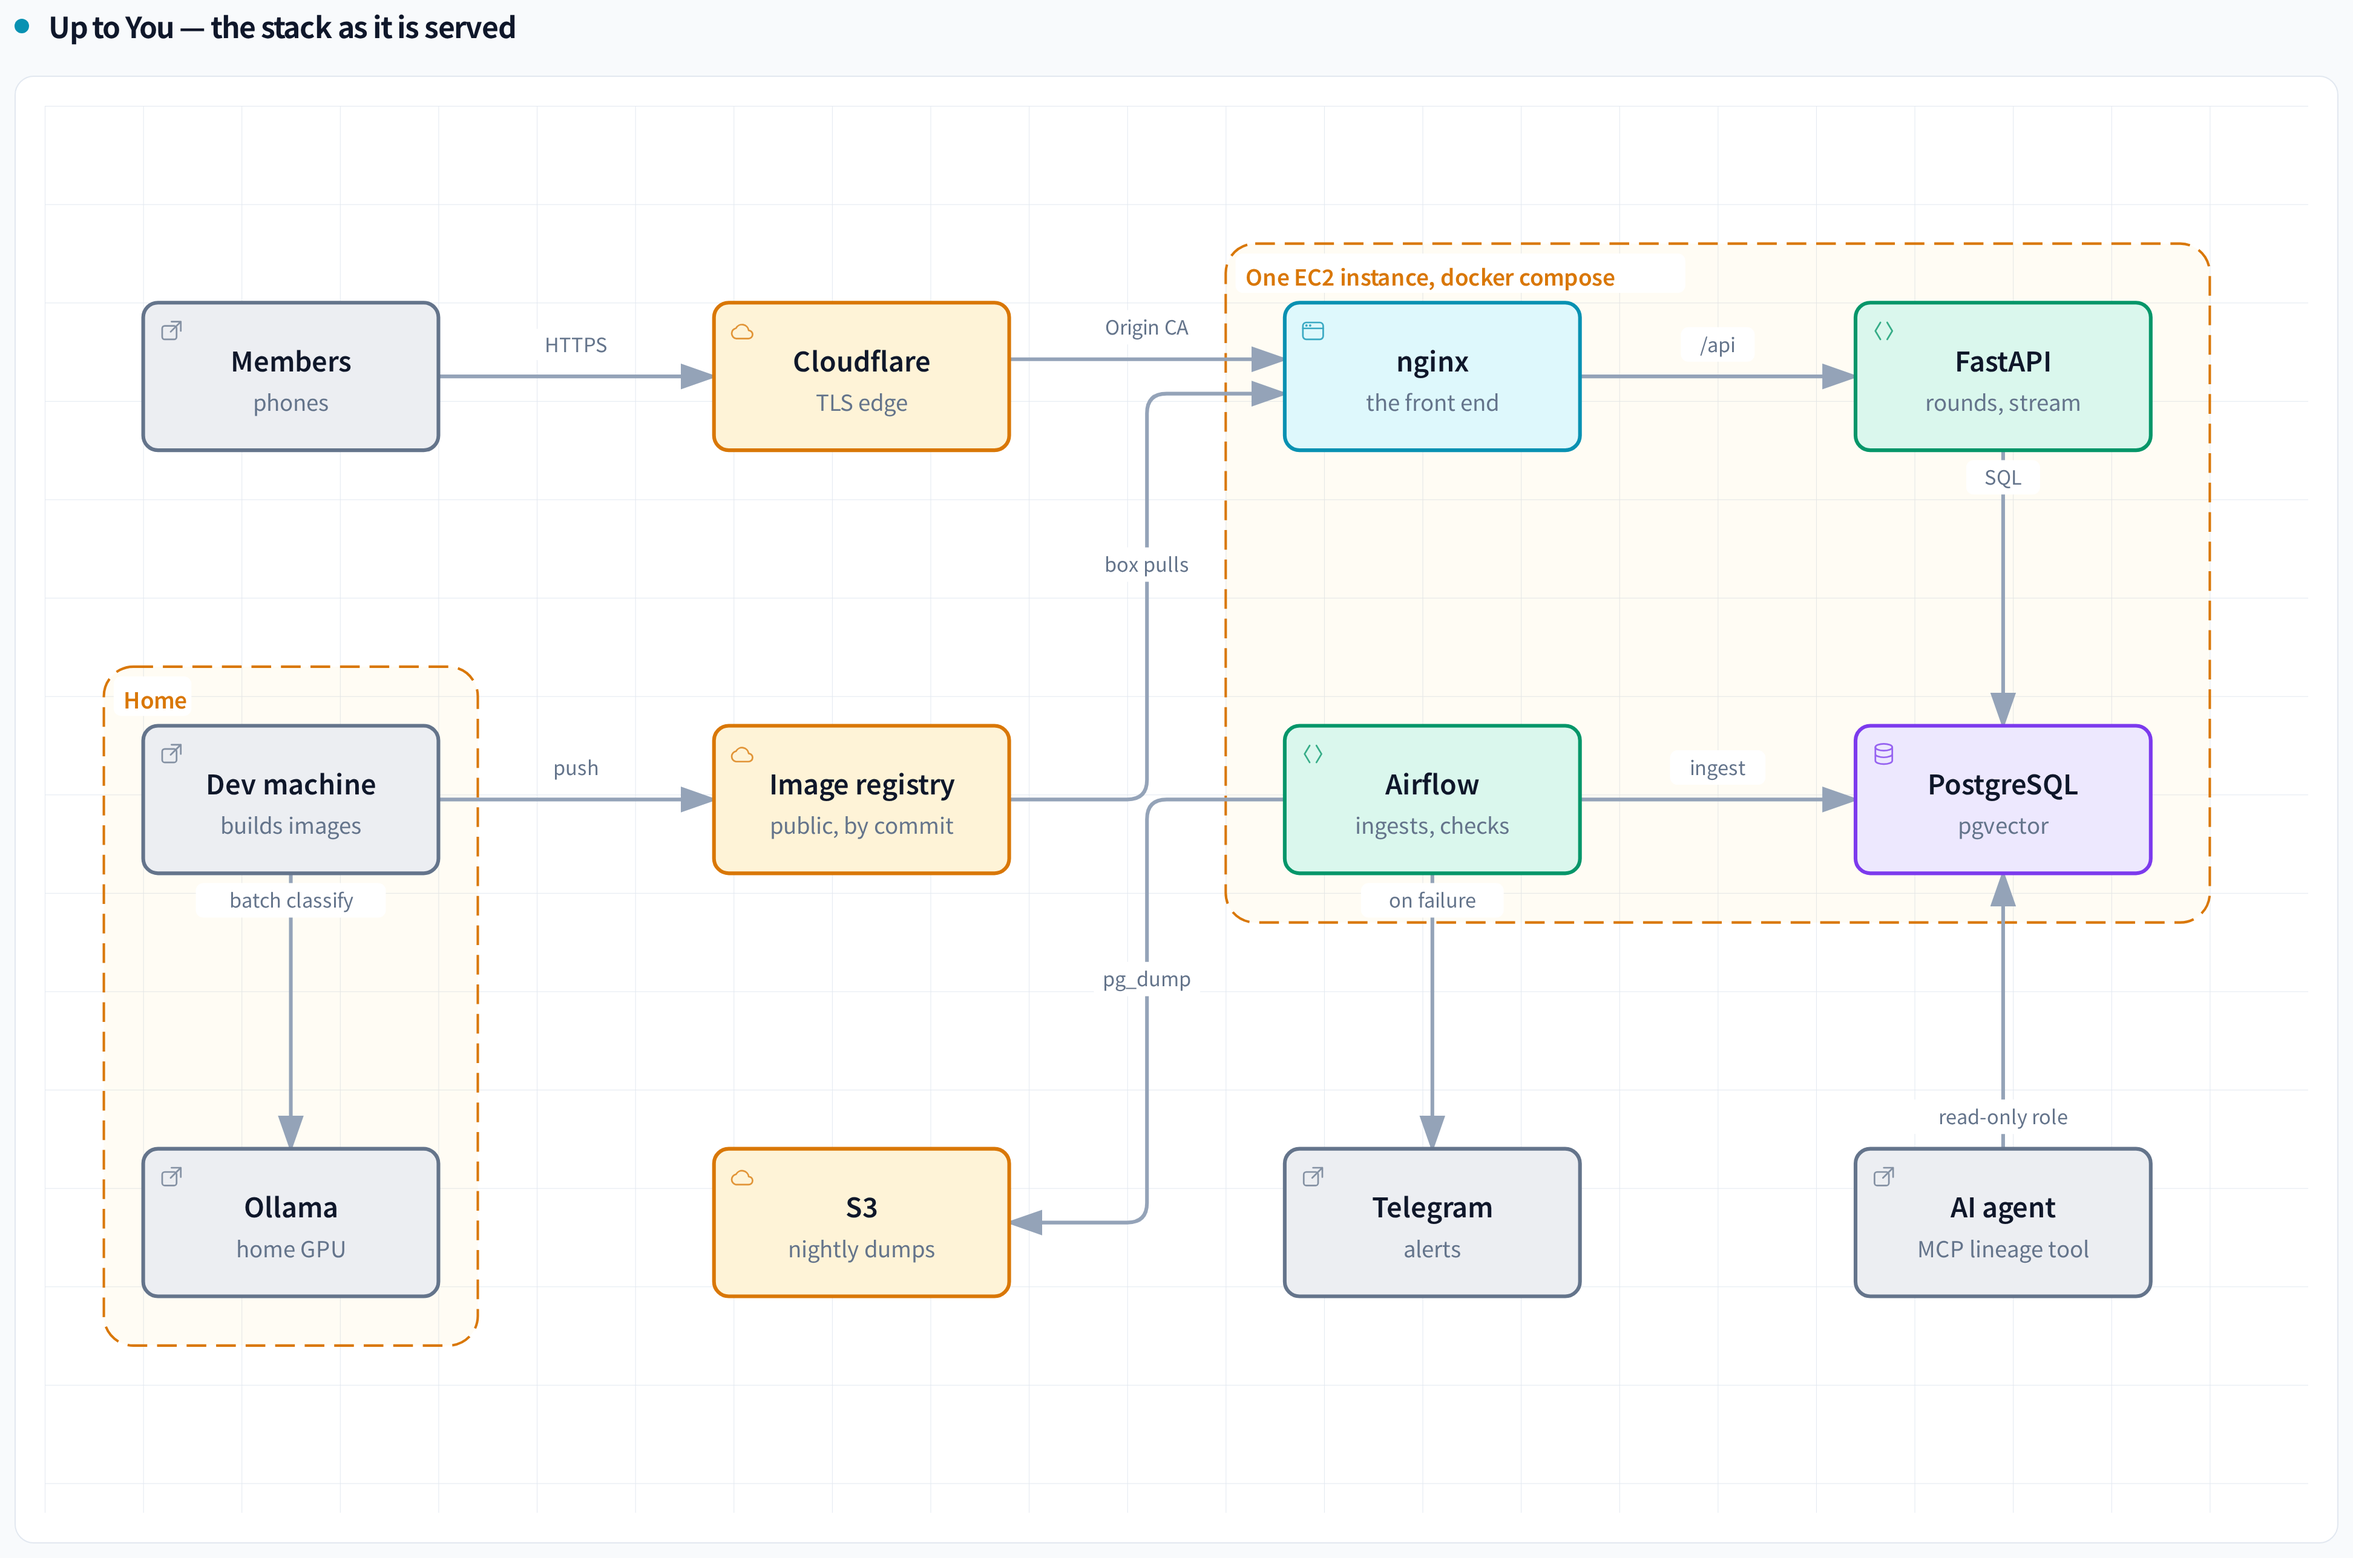
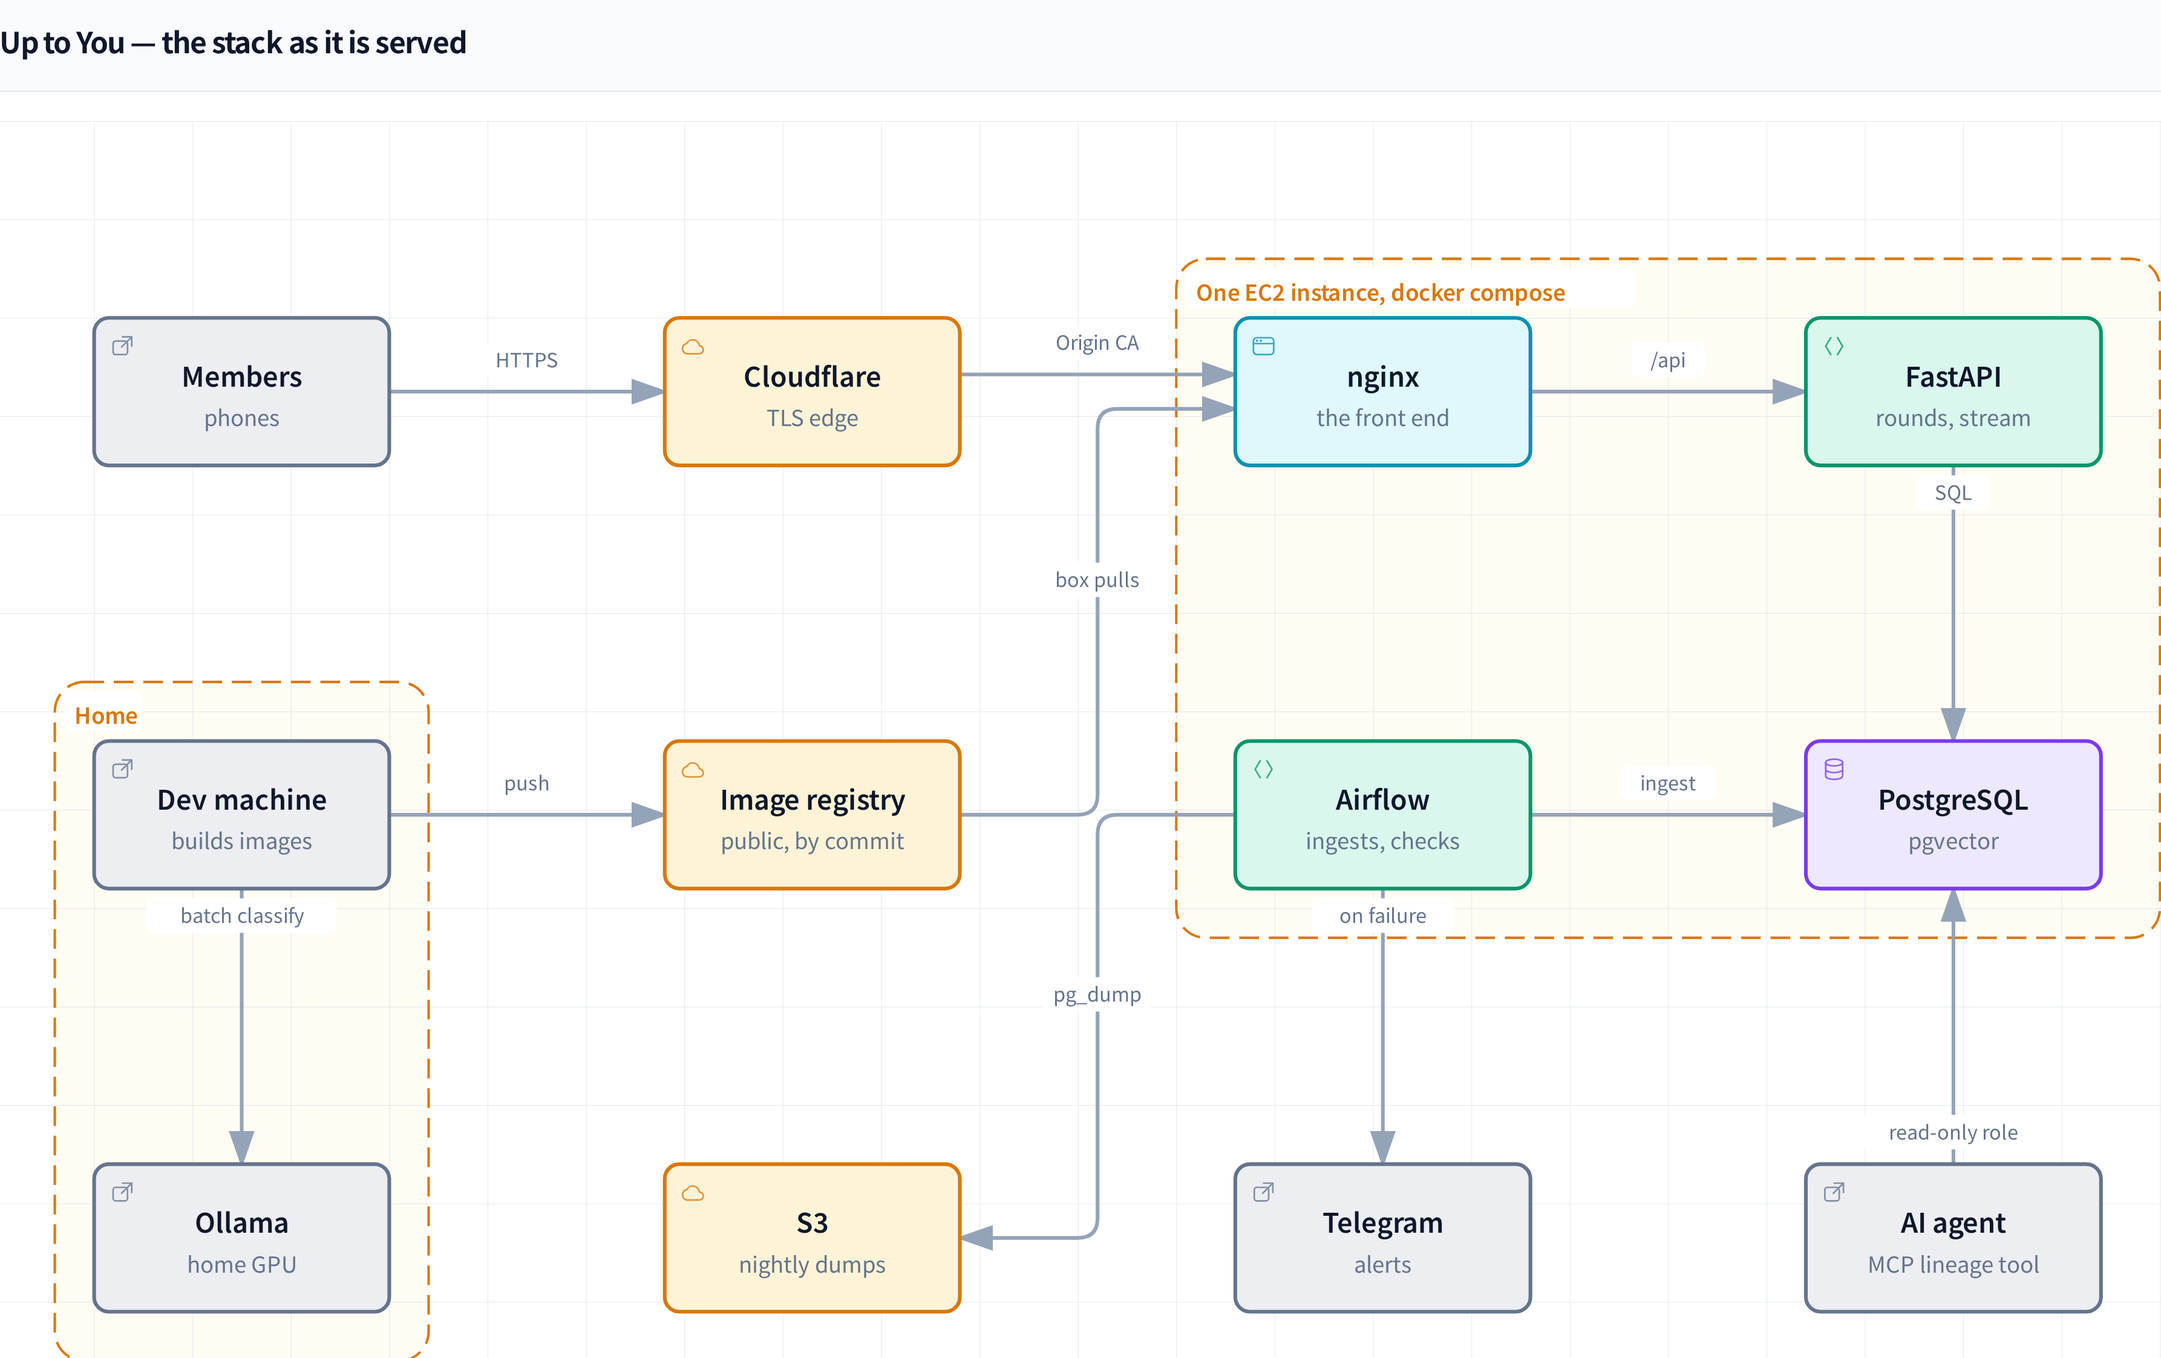
diagrams: cropped to their content, and the weather box says it is two sources
The three pictures are cut to what is drawn, with the empty grid around them removed, so they
show a little larger in a README column. The pipeline's weather box now reads "中央氣象署 (2
sources)" and its edge "forecast + observation, hourly", so two plus five daily sources make the
seven, into six ingest jobs.

diff --git a/docs/diagrams/etl-flow.html b/docs/diagrams/etl-flow.html
@@ -5051,7 +5051,7 @@
         <text x="745" y="68" class="t-dim" font-size="9" font-weight="600" text-anchor="middle">04 / Read by</text>
 
         <!-- Flow paths -->
-        <path data-edge-from="cwa" data-edge-to="ingest" data-edge-label="JSON, hourly" data-edge-key="0" data-composition-points="156,157;207.5,157;207.5,264;259,264" d="M 156 157 L 207.5 157 L 207.5 264 L 259 264" class="a-emphasis" stroke-width="1.8" marker-end="url(#arrowhead-emphasis)"/>
+        <path data-edge-from="cwa" data-edge-to="ingest" data-edge-label="forecast + observation, hourly" data-edge-key="0" data-composition-points="170,157;214.5,157;214.5,264;259,264" d="M 170 157 L 214.5 157 L 214.5 264 L 259 264" class="a-emphasis" stroke-width="1.8" marker-end="url(#arrowhead-emphasis)"/>
         <path data-edge-from="daily" data-edge-to="ingest" data-edge-label="zip, csv, nightly" data-edge-key="1" data-composition-points="156,385;207.5,385;207.5,278;259,278" d="M 156 385 L 207.5 385 L 207.5 278 L 259 278" class="a-emphasis" stroke-width="1.8" marker-end="url(#arrowhead-emphasis)"/>
         <path data-edge-from="ingest" data-edge-to="db" data-edge-label="new content only" data-edge-key="2" data-composition-points="371,271;474,271" d="M 371 271 L 474 271" class="a-emphasis" stroke-width="1.8" marker-end="url(#arrowhead-emphasis)"/>
         <path data-edge-from="db" data-edge-to="app" data-edge-label="reads" data-edge-key="3" data-composition-points="586,265;637.5,265;637.5,157;689,157" d="M 586 265 L 637.5 265 L 637.5 157 L 689 157" class="a-emphasis" stroke-width="1.8" marker-end="url(#arrowhead-emphasis)"/>
@@ -5061,15 +5061,15 @@
         <path data-edge-from="checks" data-edge-to="alert" data-edge-label="a rule breaks, 2 retries" data-edge-key="7" data-composition-points="400,506;689,506" d="M 400 506 L 689 506" class="a-security" stroke-width="1.4" marker-end="url(#arrowhead-security)"/>
 
         <!-- Nodes -->
-        <g id="node-cwa" data-node-id="cwa" data-node-label="中央氣象署" tabindex="0" role="button" aria-label="Focus 中央氣象署, 01 / Public sources" aria-pressed="false" data-node-kind="external" data-node-context="01 / Public sources">
-          <title>中央氣象署 · 01 / Public sources</title>
-          <rect x="44" y="128" width="112" height="58" rx="6" class="c-mask"/>
-          <rect x="44" y="128" width="112" height="58" rx="6" class="c-external" stroke-width="1.5"/>
-          <g aria-hidden="true" data-semantic-sigil="external" class="semantic-sigil s-external" transform="translate(50 134) scale(0.6875)">
+        <g id="node-cwa" data-node-id="cwa" data-node-label="中央氣象署 (2 sources)" tabindex="0" role="button" aria-label="Focus 中央氣象署 (2 sources), 01 / Public sources" aria-pressed="false" data-node-kind="external" data-node-context="01 / Public sources">
+          <title>中央氣象署 (2 sources) · 01 / Public sources</title>
+          <rect x="30" y="128" width="140" height="58" rx="6" class="c-mask"/>
+          <rect x="30" y="128" width="140" height="58" rx="6" class="c-external" stroke-width="1.5"/>
+          <g aria-hidden="true" data-semantic-sigil="external" class="semantic-sigil s-external" transform="translate(36 134) scale(0.6875)">
             <rect x="2.5" y="5" width="8.5" height="8" rx="1.5"/>
             <path d="M8 2.5h5.5V8M13.5 2.5 7.5 8.5"/>
           </g>
-          <text data-node-label="" x="100" y="149" class="t-primary" font-size="10" font-weight="600" text-anchor="middle">中央氣象署</text>
+          <text data-node-label="" x="100" y="149" class="t-primary" font-size="10" font-weight="600" text-anchor="middle">中央氣象署 (2 sources)</text>
         </g>
 
         <g id="node-daily" data-node-id="daily" data-node-label="five daily sources" tabindex="0" role="button" aria-label="Focus five daily sources, 01 / Public sources" aria-pressed="false" data-node-kind="external" data-node-context="01 / Public sources">
@@ -5160,9 +5160,9 @@
         </g>
 
         <!-- Flow labels -->
-        <g data-detail="context" data-edge-from="cwa" data-edge-to="ingest" data-edge-label="JSON, hourly" data-edge-key="0">
-          <rect x="172.1" y="189.5" width="70.8" height="16" rx="4" class="c-mask"/>
-          <text x="207.5" y="200.5" class="t-backend" font-size="8" text-anchor="middle">JSON, hourly</text>
+        <g data-detail="context" data-edge-from="cwa" data-edge-to="ingest" data-edge-label="forecast + observation, hourly" data-edge-key="0">
+          <rect x="135" y="189.5" width="159" height="16" rx="4" class="c-mask"/>
+          <text x="214.5" y="200.5" class="t-backend" font-size="8" text-anchor="middle">forecast + observation, hourly</text>
         </g>
         <g data-detail="context" data-edge-from="daily" data-edge-to="ingest" data-edge-label="zip, csv, nightly" data-edge-key="1">
           <rect x="159.85" y="310.5" width="95.3" height="16" rx="4" class="c-mask"/>
